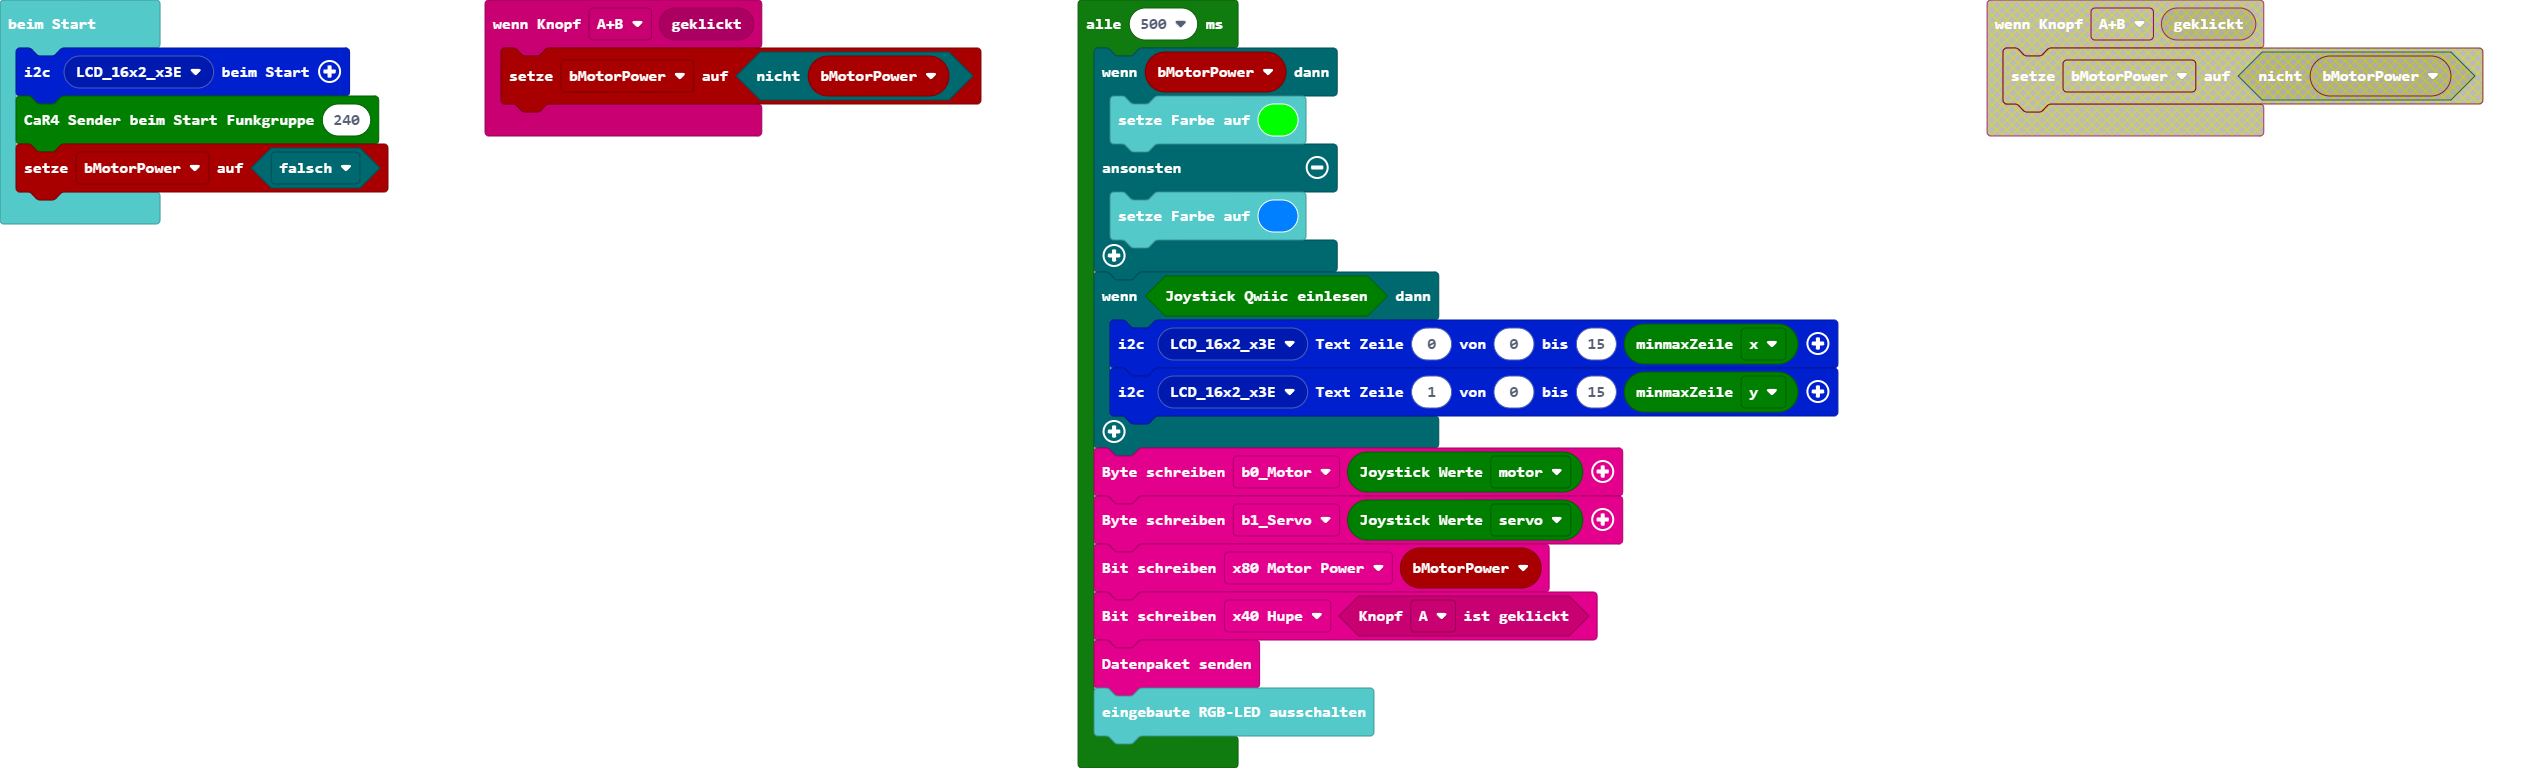
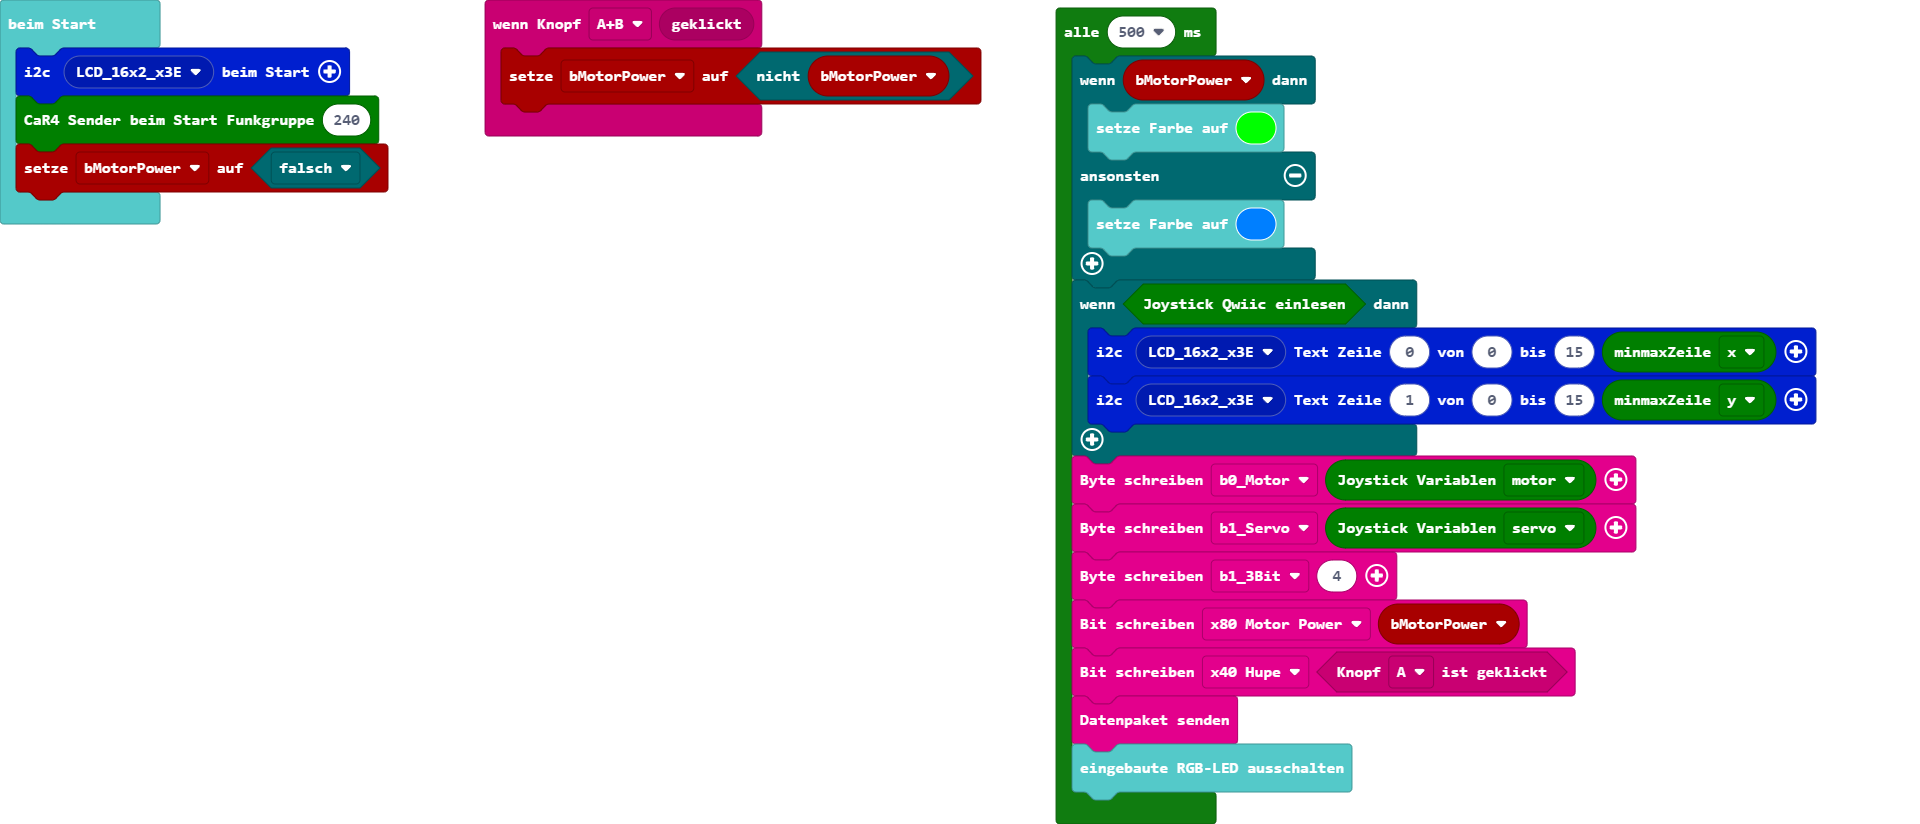
Aktualisiere main.blocks, main.ts, car4sender.ts, bluetooth.ts

diff --git a/bluetooth.ts b/bluetooth.ts
@@ -14,7 +14,7 @@ namespace car4sender
         b0_Motor = 0, // 0..128..255
         b1_Servo = 1, // Bit 4-0 (0..31)
         b2_Fahrstrecke = 2, // Encoder in cm max. 255cm
-        b1_Bits = 3 // Bit 7-6-5
+        b1_3Bit = 3 // Bit 7-6-5
     }
 
     export enum eBufferBit {
@@ -34,9 +34,14 @@ namespace car4sender
         if (!pBufferPointer) pBufferPointer = n_BufferPointer // wenn nicht angegeben internen Wert nehmen
         switch (pBufferOffset) {
             case eBufferOffset.b1_Servo:
-                n_sendBuffer19.setUint8(pBufferPointer + pBufferOffset, Math.round(pByte / 3 - 14) & 0b00011111)
+                n_sendBuffer19[pBufferPointer + 1] &= 0b11100000 // AND Bit 7-6-5 bleiben; 4-3-2-1-0 auf 0 setzen
+                n_sendBuffer19[pBufferPointer + 1] |= (Math.round(pByte / 3 - 14) & 0b00011111) // OR Bit 7-6-5 bleiben; 4-3-2-1-0 auf Ergebnis setzen
+
+                //n_sendBuffer19.setUint8(pBufferPointer + pBufferOffset, Math.round(pByte / 3 - 14) & 0b00011111)
                 break
-            case eBufferOffset.b1_Bits:
+            case eBufferOffset.b1_3Bit:
+                n_sendBuffer19[pBufferPointer + 1] &= 0b00011111 // AND Bit 4-3-2-1-0 bleiben; 7-6-5 auf 0 setzen
+                n_sendBuffer19[pBufferPointer + 1] |= (pByte << 5) // OR Bit 4-3-2-1-0 bleiben
                 break
             default: // b0_Motor und b2_Fahrstrecke 0..255
                 n_sendBuffer19.setUint8(pBufferPointer + pBufferOffset, pByte)
@@ -48,9 +53,9 @@ namespace car4sender
     //% block="Bit schreiben %pBufferBit %pBit" weight=1
     export function sendBuffer0_setBit(pBufferBit: eBufferBit, pBit: boolean) {
         if (pBit)
-            n_sendBuffer19[0] |= pBufferBit // OR 0b10000000
+            n_sendBuffer19[0] |= pBufferBit // OR 0b10000000 Bit auf 1 setzen
         else
-            n_sendBuffer19[0] &= ~pBufferBit // AND 0b01111111
+            n_sendBuffer19[0] &= ~pBufferBit // AND 0b01111111 Bit auf 0 setzen
     }
 
 

diff --git a/car4sender.ts b/car4sender.ts
@@ -11,6 +11,8 @@ namespace car4sender
     export let n_x: number, n_y: number, n_xMotor: number, n_yServo: number
     let n_xmin = 128, n_xmax = 128, n_ymin = 128, n_ymax = 128
 
+
+
     // ========== group="beim Start"
 
     //% group="beim Start"
@@ -54,7 +56,7 @@ namespace car4sender
     export enum eJoystickValue { x, y, motor, servo }
 
     //% group="Joystick"
-    //% block="Joystick Werte %pJoystickValue" weight=8
+    //% block="Joystick Variablen %pJoystickValue" weight=8
     export function joystickValues(pJoystickValue: eJoystickValue) {
         switch (pJoystickValue) {
             case eJoystickValue.x: return n_x

diff --git a/main.ts b/main.ts
@@ -17,6 +17,7 @@ loops.everyInterval(500, function () {
     }
     car4sender.sendBuffer_setUint8(car4sender.eBufferOffset.b0_Motor, car4sender.joystickValues(car4sender.eJoystickValue.motor))
     car4sender.sendBuffer_setUint8(car4sender.eBufferOffset.b1_Servo, car4sender.joystickValues(car4sender.eJoystickValue.servo))
+    car4sender.sendBuffer_setUint8(car4sender.eBufferOffset.b1_3Bit, 4)
     car4sender.sendBuffer0_setBit(car4sender.eBufferBit.x80_MotorPower, bMotorPower)
     car4sender.sendBuffer0_setBit(car4sender.eBufferBit.x40_Hupe, input.buttonIsPressed(Button.A))
     car4sender.sendBuffer19()
